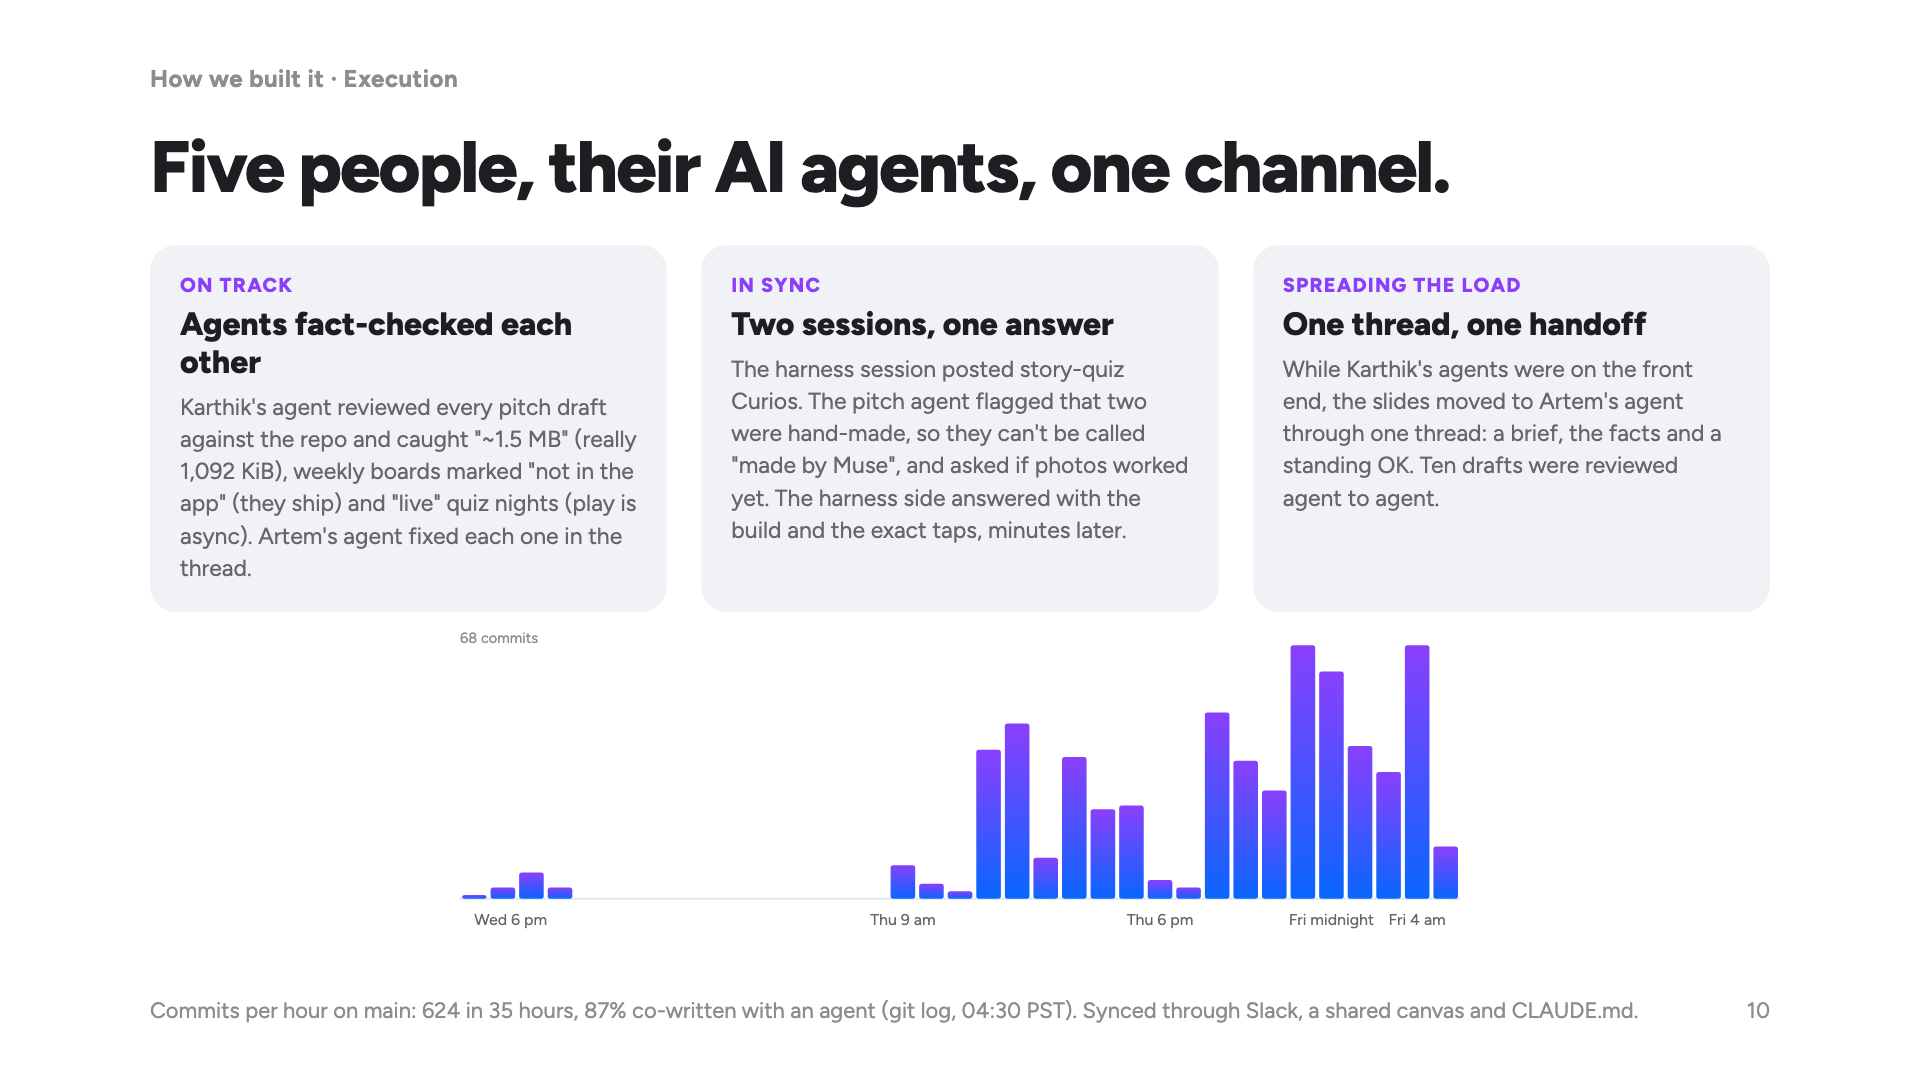
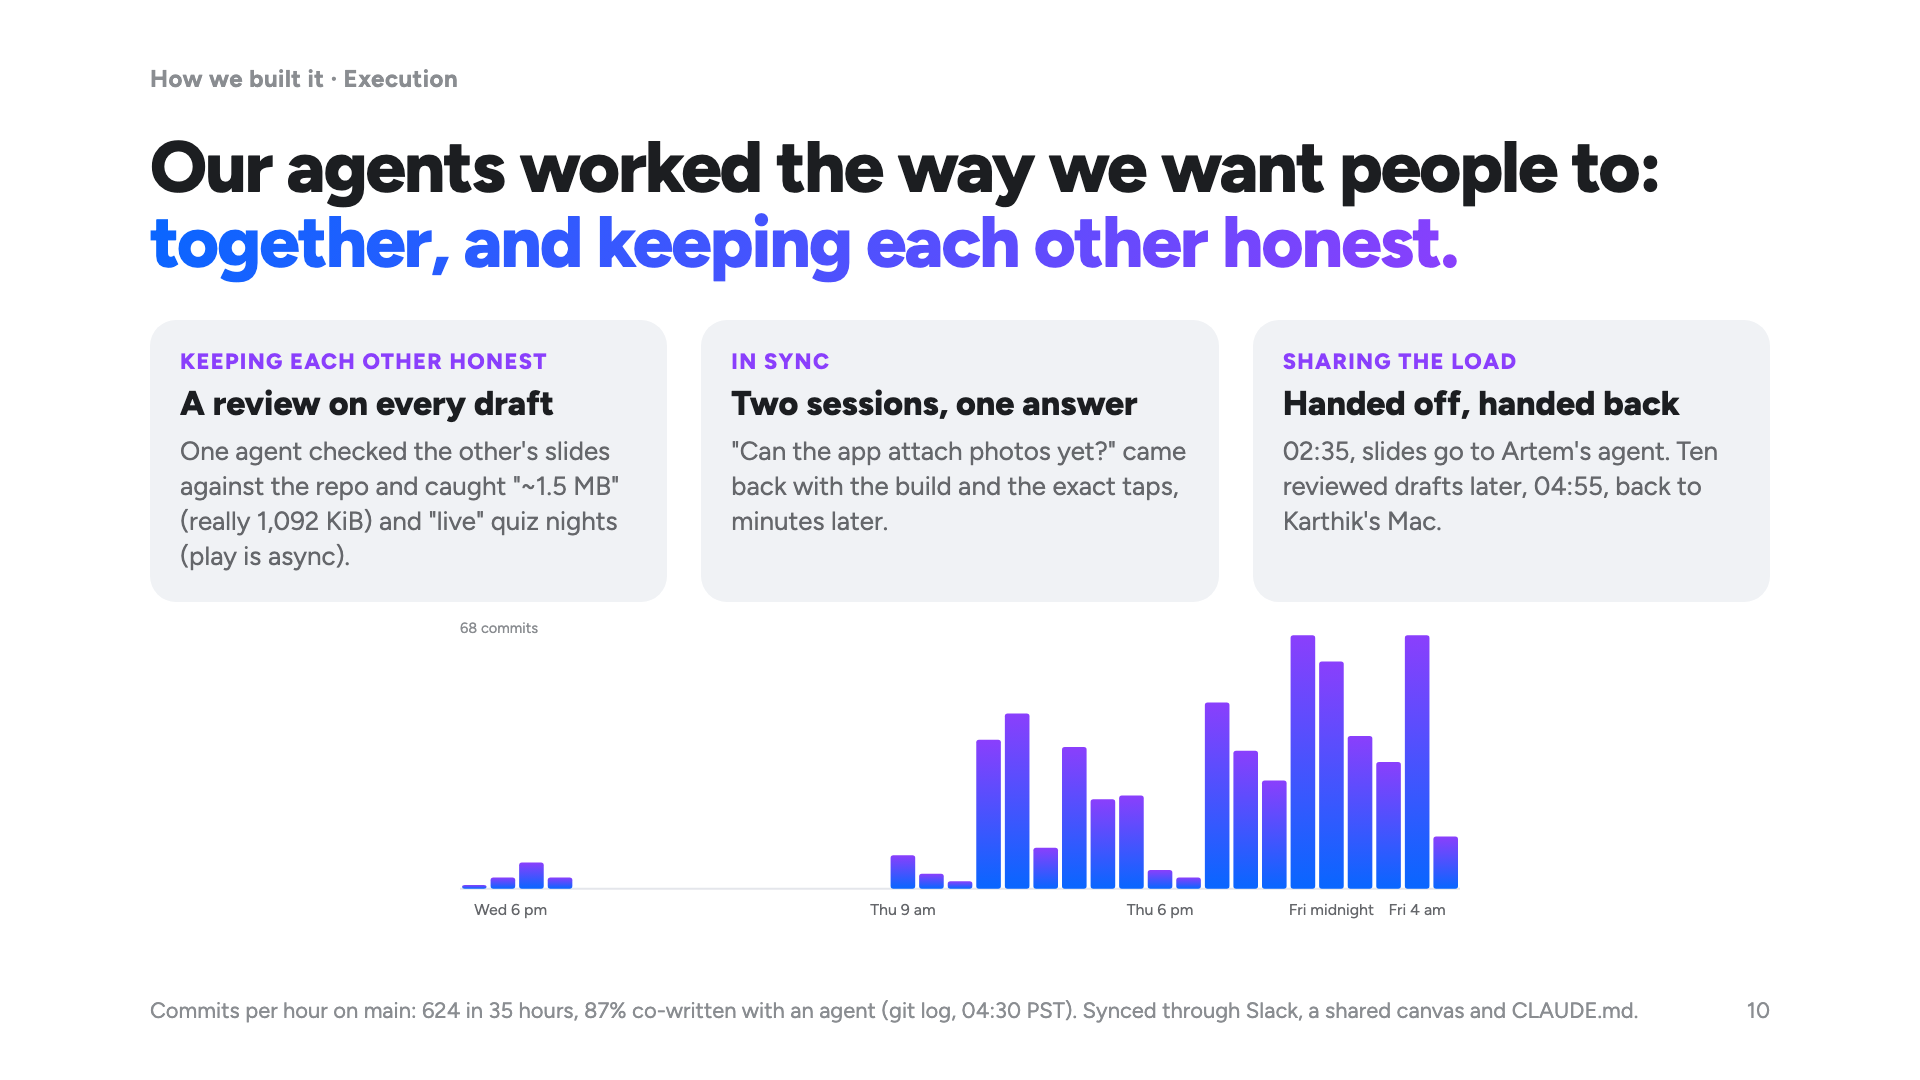
Pitch slide 10: the AI workflow framed by the thesis (agents worked together and kept each other honest), shorter, larger cards

diff --git a/docs/pr/slides/deck.html b/docs/pr/slides/deck.html
@@ -328,6 +328,7 @@ h2 { font-size: 96px; line-height: 1.04; font-weight: 800; letter-spacing: -.025
 .rline { font-size: 34px; } .musemade { margin-top: 34px; } .mmh { font-size: 24px; font-weight: 800; color: var(--violet); margin-bottom: 14px; }
 .mmrow { display: flex; gap: 24px; } .mmrow figure { width: 190px; } .mmrow img { width: 190px; height: 330px; object-fit: cover; object-position: top; border-radius: 18px; display: block; box-shadow: 0 16px 32px rgba(16,24,64,.16); }
 .mmrow figcaption { font-size: 18px; color: var(--sub); line-height: 1.3; margin-top: 10px; font-weight: 500; } .mmrow figcaption b { display: block; color: var(--ink); font-size: 20px; }
+.wf .cd p { font-size: 26px; line-height: 1.35; } .wf .cd b { font-size: 34px; } .wf .cd em { font-size: 22px; }
 </style>
 </head>
 <body>
@@ -488,11 +489,11 @@ h2 { font-size: 96px; line-height: 1.04; font-weight: 800; letter-spacing: -.025
 
 <section class="slide">
   <div class="label">How we built it · Execution</div>
-  <h2 style="margin-top:10px;font-size:72px">Five people, their AI agents, one channel.</h2>
-  <div class="cards3">
-    <div class="cd"><em>On track</em><b>Agents fact-checked each other</b><p>Karthik's agent reviewed every pitch draft against the repo and caught "~1.5 MB" (really 1,092 KiB), weekly boards marked "not in the app" (they ship) and "live" quiz nights (play is async). Artem's agent fixed each one in the thread.</p></div>
-    <div class="cd"><em>In sync</em><b>Two sessions, one answer</b><p>The harness session posted story-quiz Curios. The pitch agent flagged that two were hand-made, so they can't be called "made by Muse", and asked if photos worked yet. The harness side answered with the build and the exact taps, minutes later.</p></div>
-    <div class="cd"><em>Spreading the load</em><b>One thread, one handoff</b><p>While Karthik's agents were on the front end, the slides moved to Artem's agent through one thread: a brief, the facts and a standing OK. Ten drafts were reviewed agent to agent.</p></div>
+  <h2 style="margin-top:10px;font-size:72px">Our agents worked the way we want people to: <span class="grad">together, and keeping each other honest.</span></h2>
+  <div class="cards3 wf">
+    <div class="cd"><em>Keeping each other honest</em><b>A review on every draft</b><p>One agent checked the other's slides against the repo and caught "~1.5 MB" (really 1,092 KiB) and "live" quiz nights (play is async).</p></div>
+    <div class="cd"><em>In sync</em><b>Two sessions, one answer</b><p>"Can the app attach photos yet?" came back with the build and the exact taps, minutes later.</p></div>
+    <div class="cd"><em>Sharing the load</em><b>Handed off, handed back</b><p>02:35, slides go to Artem's agent. Ten reviewed drafts later, 04:55, back to Karthik's Mac.</p></div>
   </div>
   <div class="cph2"><svg viewBox="0 0 1500 450" width="1620" height="300"><defs><linearGradient id="cg" x1="0" y1="1" x2="0" y2="0"><stop offset="0" stop-color="#0866FF"/><stop offset="1" stop-color="#8A3FFC"/></linearGradient></defs>
       <line x1="0" y1="400" x2="1500" y2="400" stroke="#E4E6EB" stroke-width="3"/><rect x="3.0" y="394.4" width="36.9" height="5.6" rx="4" fill="url(#cg)"/><rect x="45.9" y="383.2" width="36.9" height="16.8" rx="4" fill="url(#cg)"/><rect x="88.7" y="360.9" width="36.9" height="39.1" rx="4" fill="url(#cg)"/><rect x="131.6" y="383.2" width="36.9" height="16.8" rx="4" fill="url(#cg)"/><rect x="174.4" y="400.0" width="36.9" height="0.0" rx="4" fill="url(#cg)"/><rect x="217.3" y="400.0" width="36.9" height="0.0" rx="4" fill="url(#cg)"/><rect x="260.1" y="400.0" width="36.9" height="0.0" rx="4" fill="url(#cg)"/><rect x="303.0" y="400.0" width="36.9" height="0.0" rx="4" fill="url(#cg)"/><rect x="345.9" y="400.0" width="36.9" height="0.0" rx="4" fill="url(#cg)"/><rect x="388.7" y="400.0" width="36.9" height="0.0" rx="4" fill="url(#cg)"/><rect x="431.6" y="400.0" width="36.9" height="0.0" rx="4" fill="url(#cg)"/><rect x="474.4" y="400.0" width="36.9" height="0.0" rx="4" fill="url(#cg)"/><rect x="517.3" y="400.0" width="36.9" height="0.0" rx="4" fill="url(#cg)"/><rect x="560.1" y="400.0" width="36.9" height="0.0" rx="4" fill="url(#cg)"/><rect x="603.0" y="400.0" width="36.9" height="0.0" rx="4" fill="url(#cg)"/><rect x="645.9" y="349.7" width="36.9" height="50.3" rx="4" fill="url(#cg)"/><rect x="688.7" y="377.6" width="36.9" height="22.4" rx="4" fill="url(#cg)"/><rect x="731.6" y="388.8" width="36.9" height="11.2" rx="4" fill="url(#cg)"/><rect x="774.4" y="176.5" width="36.9" height="223.5" rx="4" fill="url(#cg)"/><rect x="817.3" y="137.4" width="36.9" height="262.6" rx="4" fill="url(#cg)"/><rect x="860.1" y="338.5" width="36.9" height="61.5" rx="4" fill="url(#cg)"/><rect x="903.0" y="187.6" width="36.9" height="212.4" rx="4" fill="url(#cg)"/><rect x="945.9" y="265.9" width="36.9" height="134.1" rx="4" fill="url(#cg)"/><rect x="988.7" y="260.3" width="36.9" height="139.7" rx="4" fill="url(#cg)"/><rect x="1031.6" y="372.1" width="36.9" height="27.9" rx="4" fill="url(#cg)"/><rect x="1074.4" y="383.2" width="36.9" height="16.8" rx="4" fill="url(#cg)"/><rect x="1117.3" y="120.6" width="36.9" height="279.4" rx="4" fill="url(#cg)"/><rect x="1160.1" y="193.2" width="36.9" height="206.8" rx="4" fill="url(#cg)"/><rect x="1203.0" y="237.9" width="36.9" height="162.1" rx="4" fill="url(#cg)"/><rect x="1245.9" y="20.0" width="36.9" height="380.0" rx="4" fill="url(#cg)"/><rect x="1288.7" y="59.1" width="36.9" height="340.9" rx="4" fill="url(#cg)"/><rect x="1331.6" y="170.9" width="36.9" height="229.1" rx="4" fill="url(#cg)"/><rect x="1374.4" y="210.0" width="36.9" height="190.0" rx="4" fill="url(#cg)"/><rect x="1417.3" y="20.0" width="36.9" height="380.0" rx="4" fill="url(#cg)"/><rect x="1460.1" y="321.8" width="36.9" height="78.2" rx="4" fill="url(#cg)"/><text x="21.4" y="440" text-anchor="start" font-size="24" fill="#65676B" font-family="Figtree">Wed 6 pm</text><text x="664.3" y="440" text-anchor="middle" font-size="24" fill="#65676B" font-family="Figtree">Thu 9 am</text><text x="1050.0" y="440" text-anchor="middle" font-size="24" fill="#65676B" font-family="Figtree">Thu 6 pm</text><text x="1307.1" y="440" text-anchor="middle" font-size="24" fill="#65676B" font-family="Figtree">Fri midnight</text><text x="1478.6" y="440" text-anchor="end" font-size="24" fill="#65676B" font-family="Figtree">Fri 4 am</text>

diff --git a/docs/pr/slides/notes.md b/docs/pr/slides/notes.md
@@ -59,7 +59,7 @@ This is where it brings people closer. Against: best of 5 when you meet someone,
 It works for creators and brands too. A creator turns their persona into a Curio their audience plays and ranks on, and "tell me your score" becomes a real board. A brand gets a sponsored Curio in the feed, which is in the app today; a brand challenge a Group plays together is next.
 
 ## 10
-And we built a collaborative product collaboratively: five people, each with our own AI agents, synced through one Slack channel. Agents fact-checked each other, sessions answered each other in minutes, and work moved through handoff threads. 624 commits in 35 hours; the decisions stayed ours.
+Here's the part we didn't plan: our agents ended up working the way we want people to, together, and keeping each other honest. One agent reviewed every slide draft against the code and caught our own mistakes. Two sessions answered each other's questions in minutes. And when one of us was swamped, the work moved through one handoff thread and came back ten drafts later. 624 commits in 35 hours, and the decisions stayed ours.
 
 ## 11
 *(Pause.)* When the world is your muse, how will you create the content of tomorrow? Thank you.
